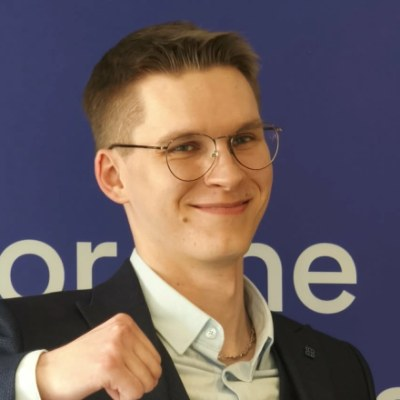
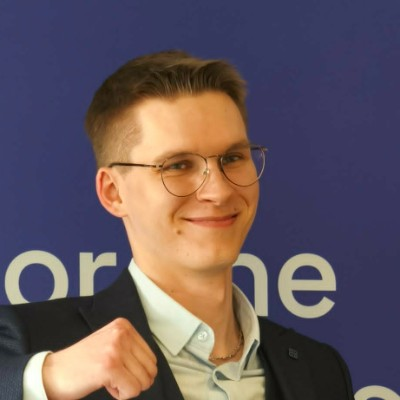
pfp update

diff --git a/PRODUCT.md b/PRODUCT.md
@@ -41,7 +41,7 @@ A practical end-to-end AI engineer: bridges rigorous machine learning / robotics
 ## Evidence on Hand
 
 - Current codebase in index.html, lang.js (complete bilingual copy dictionary), and output.css.
-- Profile photograph (`profile.png`, 800x800). `profile-400.jpg` and `profile-full.jpg` are cut from it: the first is a head-and-shoulders crop for the rail's 152px circle, the second keeps the whole frame for the modal. Regenerate both from the master rather than editing them.
+- Profile photograph (`profile-source.jpg`, 1536x2048). `profile-400.jpg` and `profile-full.jpg` are cut from it: the first is a head-and-shoulders crop for the rail's 152px circle, the second keeps the whole frame for the modal. Regenerate both from the master rather than editing them.
 - Verified academic record: Vilnius TECH (2022–present), 9/10 GPA.
 - Commercial & applied experience: NNCODE (AI Engineer), BeamNG autonomous driving pipeline, CareerCopilot assistant, and practical automation pipelines.
 
